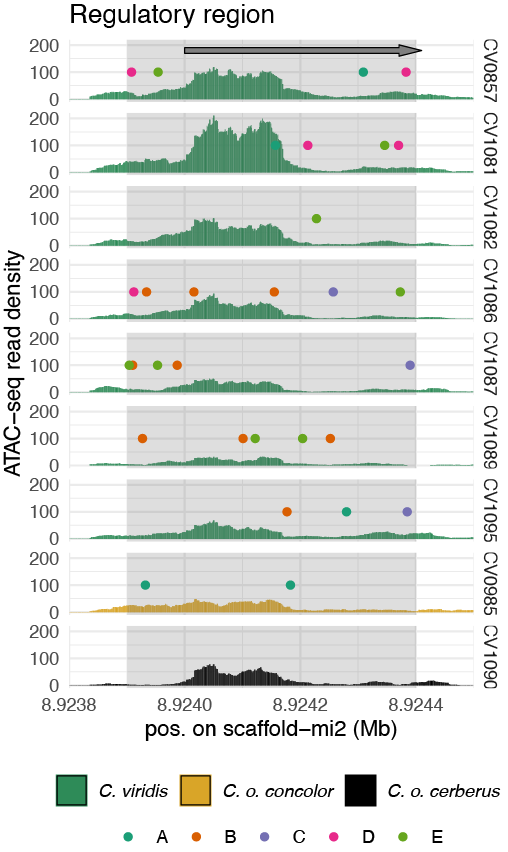
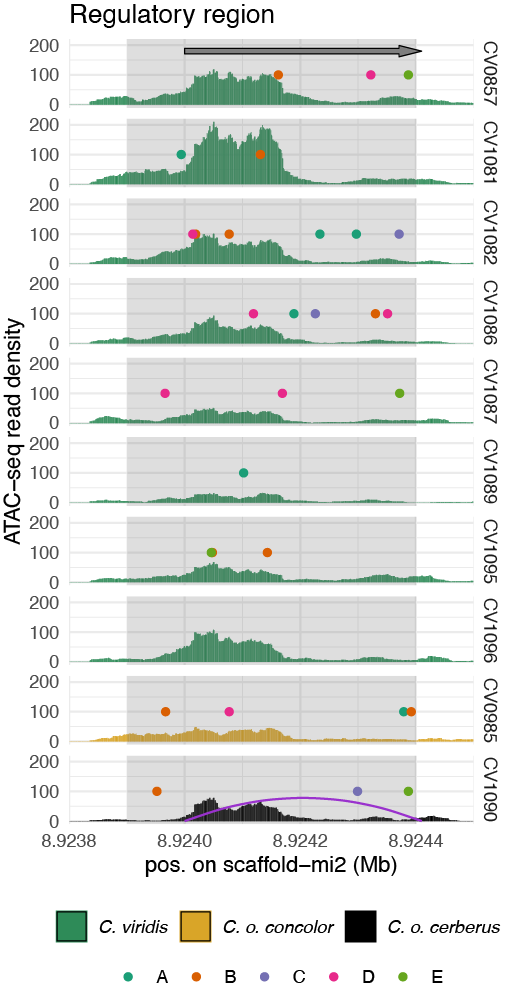
updated new post

diff --git a/_posts/2024-07-17-genome-coverage-vis.md b/_posts/2024-07-17-genome-coverage-vis.md
@@ -1,5 +1,5 @@
 ---
-title: "Visualizing genomic coverage data with ggplot"
+title: "Visualizing mapped genomic data with ggplot"
 sub_title: "Methods to make publication-ready genomics figures in R"
 categories:
   - Bioinformatics
@@ -7,52 +7,58 @@ elements:
   - ggcoverage
   - ggplot
   - dplyr
+  - bam
+  - bw
   - R
   - ATAC-seq
   - ChIP-seq
+  - WGS
+  - mapping
 ---
  
-Genomic coverage plots are a great and readily interpretable way to visualizing epigenetic profiles across many samples mapped to the same reference. See some examples [here](https://www.nature.com/articles/s41588-021-00914-y/figures/4 "Bowfin genome ATAC"), [here](https://genome.cshlp.org/content/32/6/1058/F3.expansion.html "Rattlesnake ChIP-ATAC"), and [here](https://academic.oup.com/view-large/figure/474290094/evae110f5.jpg "Rattlesnake ATAC"). The default method to visualize genomic data in this manner tends to be [IGV](https://igv.org/), which, while incredibly versatile often can be a challenge to wrangle and customize for publication-ready figures. Here is a tutorial on using ggplot and R to have much more artistic control over genomic coverage figures. While meant primarily for genomic data, some aspects of this tutorial can help you visualize any continuous data. The structure of intermediate objects will be shown so they can be easily replicated with custom data.
+ Coverage plots are a readily interpretable way to visualize genomic or epigenomic profiles (RNA-seq, proteomics, CHip-seq, ATAC-seq, WGS, etc.) across many samples mapped to the same reference. See some examples [here](https://www.nature.com/articles/s41588-021-00914-y/figures/4 "Bowfin genome ATAC"), [here](https://genome.cshlp.org/content/32/6/1058/F3.expansion.html "Rattlesnake ChIP-ATAC"), and [here](https://academic.oup.com/view-large/figure/474290094/evae110f5.jpg "Rattlesnake ATAC"). A common tool to visualize genomic data in this manner is [IGV](https://igv.org/), which while versatile, often can be challenging to customize for publication-ready figures. Here is a tutorial on using ggplot and R to have much more artistic control over genomic coverage figures. The structure of intermediate objects will be shown so they can be easily replicated with custom data.
 
-The R script used in this tutorial can be found here: [genome_coverage_minimal_example.R][1].
+*Disclaimer*: this is not a `ggplot` or `dplyr` tutorial, but rather an example of a `ggplot` application for visualizating quantitative genomic mapping data. 
 
-[1]:{{ site.url }}{{ site.baseurl }}/assets/blog_files/genome-coverage-vis/genome_coverage_minimal_example.R
+The R script used in this tutorial can be found here: [genome-coverage-minimal-example.R][1].
+
+[1]:{{ site.url }}{{ site.baseurl }}/assets/blog_files/genome-coverage-vis/genome-coverage-minimal-example.R
 
 <br>
 
 ## Required R packages
 There are a just two required dependancies for this tutorial: [`ggcoverage`](https://github.com/showteeth/ggcoverage), [`tidyverse`](https://www.tidyverse.org/).
 
-If you want to do a bit more customization: [`scales`](https://scales.r-lib.org/), [`gggenes`](https://github.com/wilkox/gggenes/tree/master) and [`RColorBrewer`](https://cran.r-project.org/web/packages/RColorBrewer/index.html) are useful.
+If you want to do a bit more figure customization: [`scales`](https://scales.r-lib.org/), [`gggenes`](https://github.com/wilkox/gggenes/tree/master) and [`RColorBrewer`](https://cran.r-project.org/web/packages/RColorBrewer/index.html) are used in the accompanying script.
 
 <br>
 
 ## Making coverage plots
-`ggcoverage` is a package that has its own genomic coverage visualization implementation, but you'll get more flexibility with `ggplot`. It does however have a nice function to import many [commonly used coverage datatypes](https://rdrr.io/cran/ggcoverage/man/LoadTrackFile.html) (bam, wig, bw, bedgraph, txt) efficiently, without allowing massive files to overload your RAM. 
+`ggcoverage` is a package that has its own genomic coverage visualization implementation, but you'll get more flexibility with `ggplot`. It does however have a nice function to import many [commonly used coverage datatypes](https://rdrr.io/cran/ggcoverage/man/LoadTrackFile.html) (bam, wig, bw, bedgraph, txt) efficiently, without overloading your RAM, used in this guided example. 
 
-In this guided example, I'm using [data](https://www.ncbi.nlm.nih.gov/bioproject/PRJNA1061517/ "Data") from a [recent publication](https://doi.org/10.1093/gbe/evae110 "GBE 2024") of ATAC-seq data mapped to a common reference genome, producing .bam alignment files. 
+I'm using [data](https://www.ncbi.nlm.nih.gov/bioproject/PRJNA1061517/ "Data") from a [recent publication](https://doi.org/10.1093/gbe/evae110 "GBE 2024") representing chromatin accessibility (ATAC-seq) libraries mapped to a common reference genome, producing .bam alignment files. 
 
 <br>
 
 #### 1. Set up metadata, and load in coverage files 
 
-The first step is to make a metadata object to let `ggcoverage` know where to look for data, and what it consists of, and any other useful data attributes.
+The first step is to configure a metadata object to let `ggcoverage` know where to look for data. You can include any other useful data attributes that you want to represent in the visualization here (usually for grouping or colouring).
 
 ```R
-# this is a folder with .bam files (different samples mapped to same reference)
+# this is a folder with .bam files (multi-sample ATAC-seq mapped to common reference)
 track.folder = 'path/to/bams/' 
 
-# Create a metadata file from .bam names
+# Create metadata from .bam names
 # sample.meta = data.frame(SampleName = gsub('.bam', '' , grep('bam$', list.files(track.folder), value = T)))
 # sample.meta is just a 1 column df with names of bam files at this points (without the extension) equivalent to:
 
 sample.meta <- data.frame(
   stringsAsFactors = FALSE,
-        SampleName = c("CV0857_viridis_North_M.dedup.filtered.unique", "CV0985_concolor_Other_F.dedup.filtered.unique",
-                       "CV1081_viridis_Mid_M.dedup.filtered.unique", "CV1082_viridis_South_M.dedup.filtered.unique", 
-                       "CV1086_viridis_South_M.dedup.filtered.unique", "CV1087_viridis_North_F.dedup.filtered.unique",
-                       "CV1089_viridis_South_M.dedup.filtered.unique", "CV1090_cerberus_Other_M.dedup.filtered.unique", 
-                       "CV1095_viridis_North_M.dedup.filtered.unique", "CV1096_viridis_North_F.dedup.filtered.unique")
+        SampleName = c("CV0857_viridis_North_M", "CV0985_concolor_Other_F",
+                       "CV1081_viridis_Mid_M", "CV1082_viridis_South_M", 
+                       "CV1086_viridis_South_M", "CV1087_viridis_North_F",
+                       "CV1089_viridis_South_M", "CV1090_cerberus_Other_M", 
+                       "CV1095_viridis_North_M", "CV1096_viridis_North_F")
 )
 
 # Add more attributes to the metadata
@@ -67,16 +73,15 @@ The basic format for the metadata, `sample.meta`, should be like shown below. Th
 
 | SampleName                                | SampleID | Species |
 |:----------------------------------------- |:--------:|:-------:|
-| CV0857_viridis_North_M.dedup.filtered.unique | CV0857   | viridis |
-| CV1081_viridis_Mid_M.dedup.filtered.unique   | CV1081   | viridis |
-| CV1082_viridis_South_M.dedup.filtered.unique | CV1082   | viridis |
-| CV1086_viridis_South_M.dedup.filtered.unique | CV1086   | viridis |
-| CV1087_viridis_North_F.dedup.filtered.unique | CV1087   | viridis |
-| CV1089_viridis_South_M.dedup.filtered.unique | CV1089   | viridis |
-| CV1095_viridis_North_M.dedup.filtered.unique | CV1095   | viridis |
-| CV0985_concolor_Other_F.dedup.filtered.unique | CV0985   | concolor|
-| CV1090_cerberus_Other_M.dedup.filtered.unique | CV1090   | cerberus|
-
+| CV0857_viridis_North_M | CV0857   | viridis |
+| CV1081_viridis_Mid_M   | CV1081   | viridis |
+| CV1082_viridis_South_M | CV1082   | viridis |
+| CV1086_viridis_South_M | CV1086   | viridis |
+| CV1087_viridis_North_F | CV1087   | viridis |
+| CV1089_viridis_South_M | CV1089   | viridis |
+| CV1095_viridis_North_M | CV1095   | viridis |
+| CV0985_concolor_Other_F | CV0985   | concolor|
+| CV1090_cerberus_Other_M | CV1090   | cerberus|
 
 
 <br>
@@ -86,7 +91,7 @@ The basic format for the metadata, `sample.meta`, should be like shown below. Th
 In this example, we're going to be focusing on a regulatory region of a gene of interest.
 
 ```R
-# load regions of interest from bam files
+# load regions of interest from bam files (change this for custom data)
 chrom = "scaffold-mi2"
 start_pos = floor(8923875 / 100 ) * 100 # Rounds the start coordinate to the nearest 100
 end_pos = ceiling(8924426 / 500 ) * 500 # Rounds the end coordinate to the nearest 500
@@ -99,7 +104,7 @@ track.df = LoadTrackFile(track.folder = track.folder, format = "bam", # change b
                          #region = paste0(chrom, ':', start_pos, '-', end_pos) # bw
 )
 ```
-The resulting `track.df` object will provide scores (RPKM normalized by default, this can be changed) representing levels of coverage across genomic coordinates, either single nucleotides or larger bins. Note that the attributes we added to `sample.meta`, *SampleID* and *Species*, also appear in this object. This will allow us to group and colour our plot. You may notice that this dataframe is already in [`tidy`](https://cran.r-project.org/web/packages/tidyr/vignettes/tidy-data.html) format, ideal for `ggplot`. See below for a snapshot of the dataframe: 
+The resulting `track.df` object will provide scores (RPKM normalized by default, this can be changed) representing levels of coverage across genomic coordinates, either single nucleotides or larger bins depending on the options used in `LoadTrackFile`. Note that the attributes we added to `sample.meta`, *SampleID* and *Species*, also appear in this object. This will allow us to group and colour our plot. You may notice that this dataframe is already in [`tidy`](https://cran.r-project.org/web/packages/tidyr/vignettes/tidy-data.html) format, ideal for `ggplot`. See below for a snapshot of `track.df`: 
 
 | seqnames     |   start   |   end     | score |  SampleID  | Species  |
 |:-------------|:---------:|:---------:|:-----:|:------:|:------:|
@@ -116,11 +121,11 @@ The resulting `track.df` object will provide scores (RPKM normalized by default,
 
 
 <br>
-#### 3. Making the most basic coverage plot
+#### 3. Making a basic coverage plot
 
-First, I'll show you how to make them most basic plot, then increase it's complexity by building off the starter code.
+First is a demonstration of them most basic plot, then we can increase its complexity by building off the starter code.
 
-The data used here represents ATAC-seq data from 3 species. For these plots, I want to split up coverage tracks to show each individual, and colour by species. This process involves a method called ["facet wrapping"](https://ggplot2.tidyverse.org/reference/facet_wrap.html). Here, we facet wrap by SampleID, then set `fill=Species`. We use `geom_col` because [we want heights to represent data values](https://ggplot2.tidyverse.org/reference/geom_bar.html). 
+The data used here represents ATAC-seq data from ten individuals of three species (viridis, concolor and cerberus). So for these plots, we want to split up coverage tracks to show each individual, and colour by species. This process involves a method called ["facet wrapping"](https://ggplot2.tidyverse.org/reference/facet_wrap.html). Here, we facet wrap by SampleID, then set `fill=Species`. We use `geom_col` because [we want heights to represent data values](https://ggplot2.tidyverse.org/reference/geom_bar.html). 
 
 ```R
 # Basic plot
@@ -133,10 +138,12 @@ ggplot() +
 ```
 ![center-aligned-image]({{ site.url }}{{ site.baseurl }}/assets/blog_files/genome-coverage-vis/basic_plot.png){: .align-center}
 
+Not quite publication quality, so we can make a few more customizations.
+
 <br>
 
 #### 4. More cutomization with `ggplot`
-`ggplot` allows a great deal of customization and complexity. For example, we can add the following customizations:
+`ggplot` allows a great deal of customization and complexity. For example, we can add the following:
 - Single column facet
 - Changed colours, axes labels and legend title (requires `scales`)
 <br>
@@ -173,12 +180,13 @@ ggplot() +
 
 #### 5. Adding annotations to ggplot
 
-Adding annotations to ggplot is easy, it's just a matter of making new dataframes with information that you want to plot, then setting the appropriate x, y and potentially fill and colour values in the `aes()` call.
+Adding annotations to ggplot is easy; it's just a matter of creating new data frames with the information you want to plot, then setting the appropriate x, y, and potentially fill and color values in the aes() calls to the various geoms.
 
-Lets add the following (note that this data is made up for the sake of illustration):
-- A highlighted region representing a peak called by MACS2
+Lets add the following (this data is made up for the sake of illustration):
+- A translucent gray region representing a peak called by MACS2 (peak-calling algorithm)
 - Transcription factors binding sites in each individual (coloured with `RColorBrewer`)
 - A gene arrow annotation (uses `gggenes`)
+- A Hi-C contact curve
 
 ```R
 # ATAC-seq peak
@@ -204,6 +212,8 @@ TFBSs <- data.frame(
   SampleID = sample(sample.meta$SampleID, 30, replace = TRUE)
 )
 
+# Hi-C contact
+HiC <- data.frame(x1 = 8924000, x2 = 8924410, y1 = 0, y2 = 0, SampleID = "CV1090")
 
 ggplot() +
   theme_minimal() +
@@ -214,8 +224,9 @@ ggplot() +
            ymin = -Inf,
            ymax = +Inf,
            alpha = 0.2) +
+  geom_curve(data = HiC, aes(x = x1, y = y1, xend = x2, yend = y2), curvature = -0.2, color = "darkorchid3") + # make a curve showing a Hi-C contact
   geom_point(data = TFBSs, aes(x = pos, y = 100, color = TF)) + # Add coloured dots representing TFBSs
-  geom_gene_arrow(data = arrow, aes(xmin = start, xmax = end, y = 180), arrowhead_height = grid::unit(2, "mm"), arrow_body_height = grid::unit(1, "mm")) + # customize the gene arrow
+  geom_gene_arrow(data = arrow, aes(xmin = start, xmax = end, y = 180, fill = 'blue'), arrowhead_height = grid::unit(2, "mm"), arrow_body_height = grid::unit(1, "mm")) + # customize the gene arrow
   facet_wrap(~factor(SampleID, levels = sample.meta$SampleID), ncol = 1, strip.position = "right") + # can use scales = "free_y" if you want to have each track to have independently determined y axes
   scale_x_continuous(limits = c(start_pos,end_pos), expand = c(0,0), labels = label_number(scale = 1e-6), breaks = pretty_breaks(n=3)) + # use pretty_breaks to customize breakpoints in the axes
   scale_y_continuous(breaks = pretty_breaks(n=2)) +
@@ -240,10 +251,14 @@ ggplot() +
 
 <div style="text-align: center;">
   <img src="{{ site.url }}{{ site.baseurl }}/assets/blog_files/genome-coverage-vis/complex_plot@2x.png" class="align-center" alt="center-aligned-image">
-  <figcaption>Even more customized plot, with three types of annotated data.</figcaption>
+  <figcaption>Even more customized plot, with four types of annotated data.</figcaption>
 </div>
 
 <br>
 
 ## Additional steps
-`ggplot` offers far more customization potential than IGV, making it much more useful for making publication-ready genomic track figures. Touching up figures from `ggplot` can be done with other software such as Adobe Illustrator or InkScape for example.
+Ultimately `ggplot` offers far more customization potential than IGV, making it more useful for making publication-ready figures. 
+
+Because the `track.df` object imported by `ggcoverage::LoadTrackFile` is already `tidy` formatted, this makes it incredibly easy to augment and manipulate with `dplyr`. For instance, you can calculate coverage statistics across some or all samples, and plot that in addition to coverage by creating an additional new variable to facet by. You can also add other plots using [`cowplot`](https://cran.r-project.org/web/packages/cowplot/vignettes/introduction.html), such as expression profiles right next to coverage plots. See a demonstration of these figures [here](https://academic.oup.com/view-large/figure/474290098/evae110f6.jpg).
+
+There are limits to `ggplot`, and there may be the need to touch up figures in other vector graphics software such as Adobe Illustrator or InkScape.
